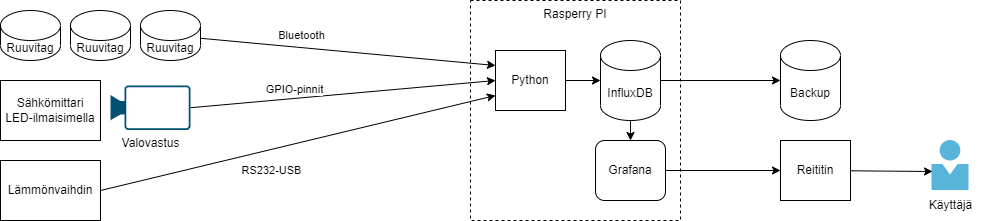
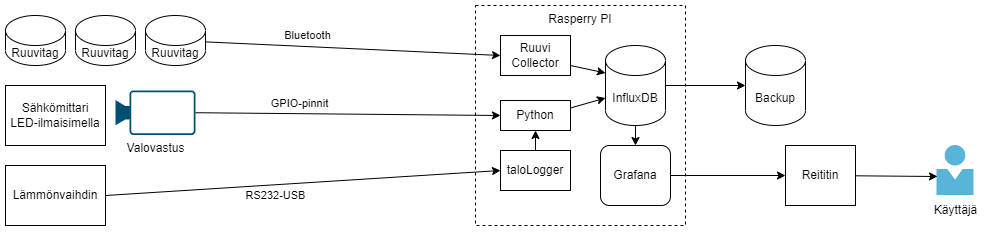
Lisätty perusajatuksen kuvaus

diff --git a/README.md b/README.md
@@ -2,21 +2,44 @@
 
 ![Overall picture](/diagrams/Talonvalvonta.png)
 
+Ajatukset toteutukselle saatiin Ville Alatalon hyvistä selonteoista
+- https://medium.com/@ville.alatalo/oma-s%C3%A4%C3%A4asema-ruuvitagilla-ja-grafanalla-25c823f20a20
+- https://medium.com/@ville.alatalo/diy-omakotitalon-l%C3%A4mmityksen-mittaaminen-ja-visualisointi-cacfcd974a44
+
 # Rasperry PI
 
-## Speksit
+- Järjestelmän ytimenä toimii RasperryPI 4 Model B korttitietokone joka asennetaan tekniseen tilaan sopivasti toimilaitteiden ja verkkokaapin läheisyyteen. 
+- Raspi kytketään IoT-wlaniin pois eikä anneta pääsyä kotiverkkoon
+  - Hallintayhteys vaatii liittymisen IoT-wlaniin
+  - Grafanan UI julkaistaan reitittimen läpi internettiin DynDNS tai vastaavan avulla --> myös kotiverkosta pääsee kätevästi katsomaan käyriä.
 
-## Python
+## Speksit
+  - https://raspikauppa.fi/product/raspberry-pi-4-model-b-starter-kit/
 
 ## InfluxDB
+- Aikasarjatietokanta mittatulostentallentamiseen
+- https://docs.influxdata.com/influxdb/v1.4/introduction/installation/
+- Varmuuskopiot
+  - TODO: Mihin varmuuskopioidaan? Pilveen vai NAS:lle? Miten usein?
 
-## Varmuuskopioit
 
 ## Grafana
+- https://github.com/fg2it/grafana-on-raspberry
+- TODO: Nykytilanne-dashboard? Pohjakuvan päälle?
+- TODO: Trendinäkymät?
 
 # Mittaukset
 
-## RuuviTag
+## RuuviTag (Huonelämpötilat, -kosteudet- ilmanpaineet)
+- https://github.com/Scrin/RuuviCollector (Java 8)
+- Jokaisen huonetermostaatin yhteyteen oma RuuviTag + muutama muu huone missä ei ole termostaattia (esim. kodinhoito)
+- TODO: Mitä sitten jos RuuviTagit ei kuulukaan koko talosta?
 
 ## Sähkönkulutus LED-indikaattorista
+- TODO: Oma viritys valovastuksella vai joku valmis palikka?
+
+## Lämmönvaihtimen data (vesien lämpötilat, ulkolämpötila)
+- https://olammi.iki.fi/sw/taloLogger/ (Python 2.4+)
+- https://github.com/alatalo/ouman-collector (Python 2.7)
+- TODO: Selvitä mitä takuulle tapahtuu jos laitteeseen kolvaa sarjaporttikytkennän 
 
